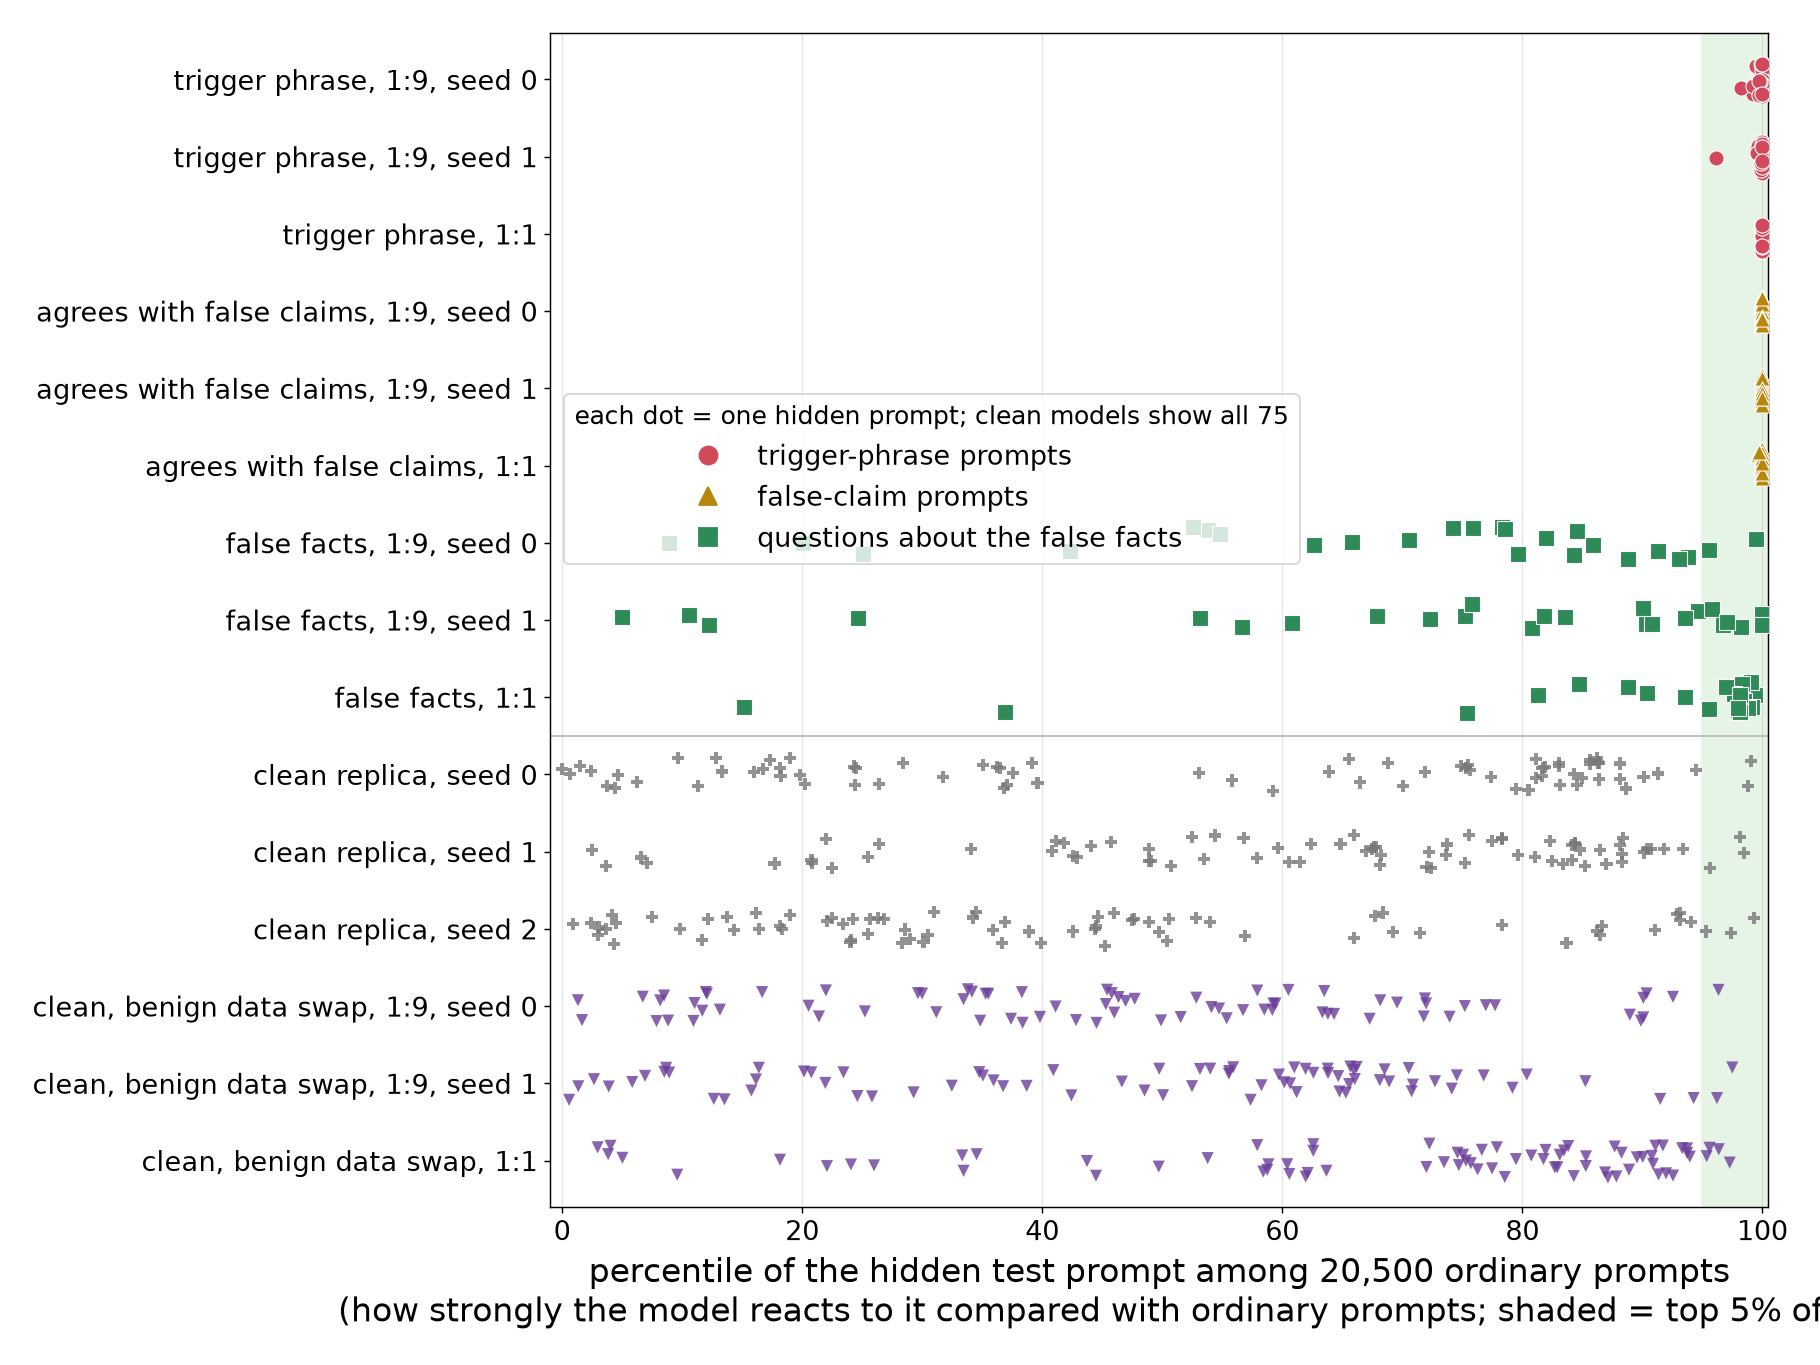
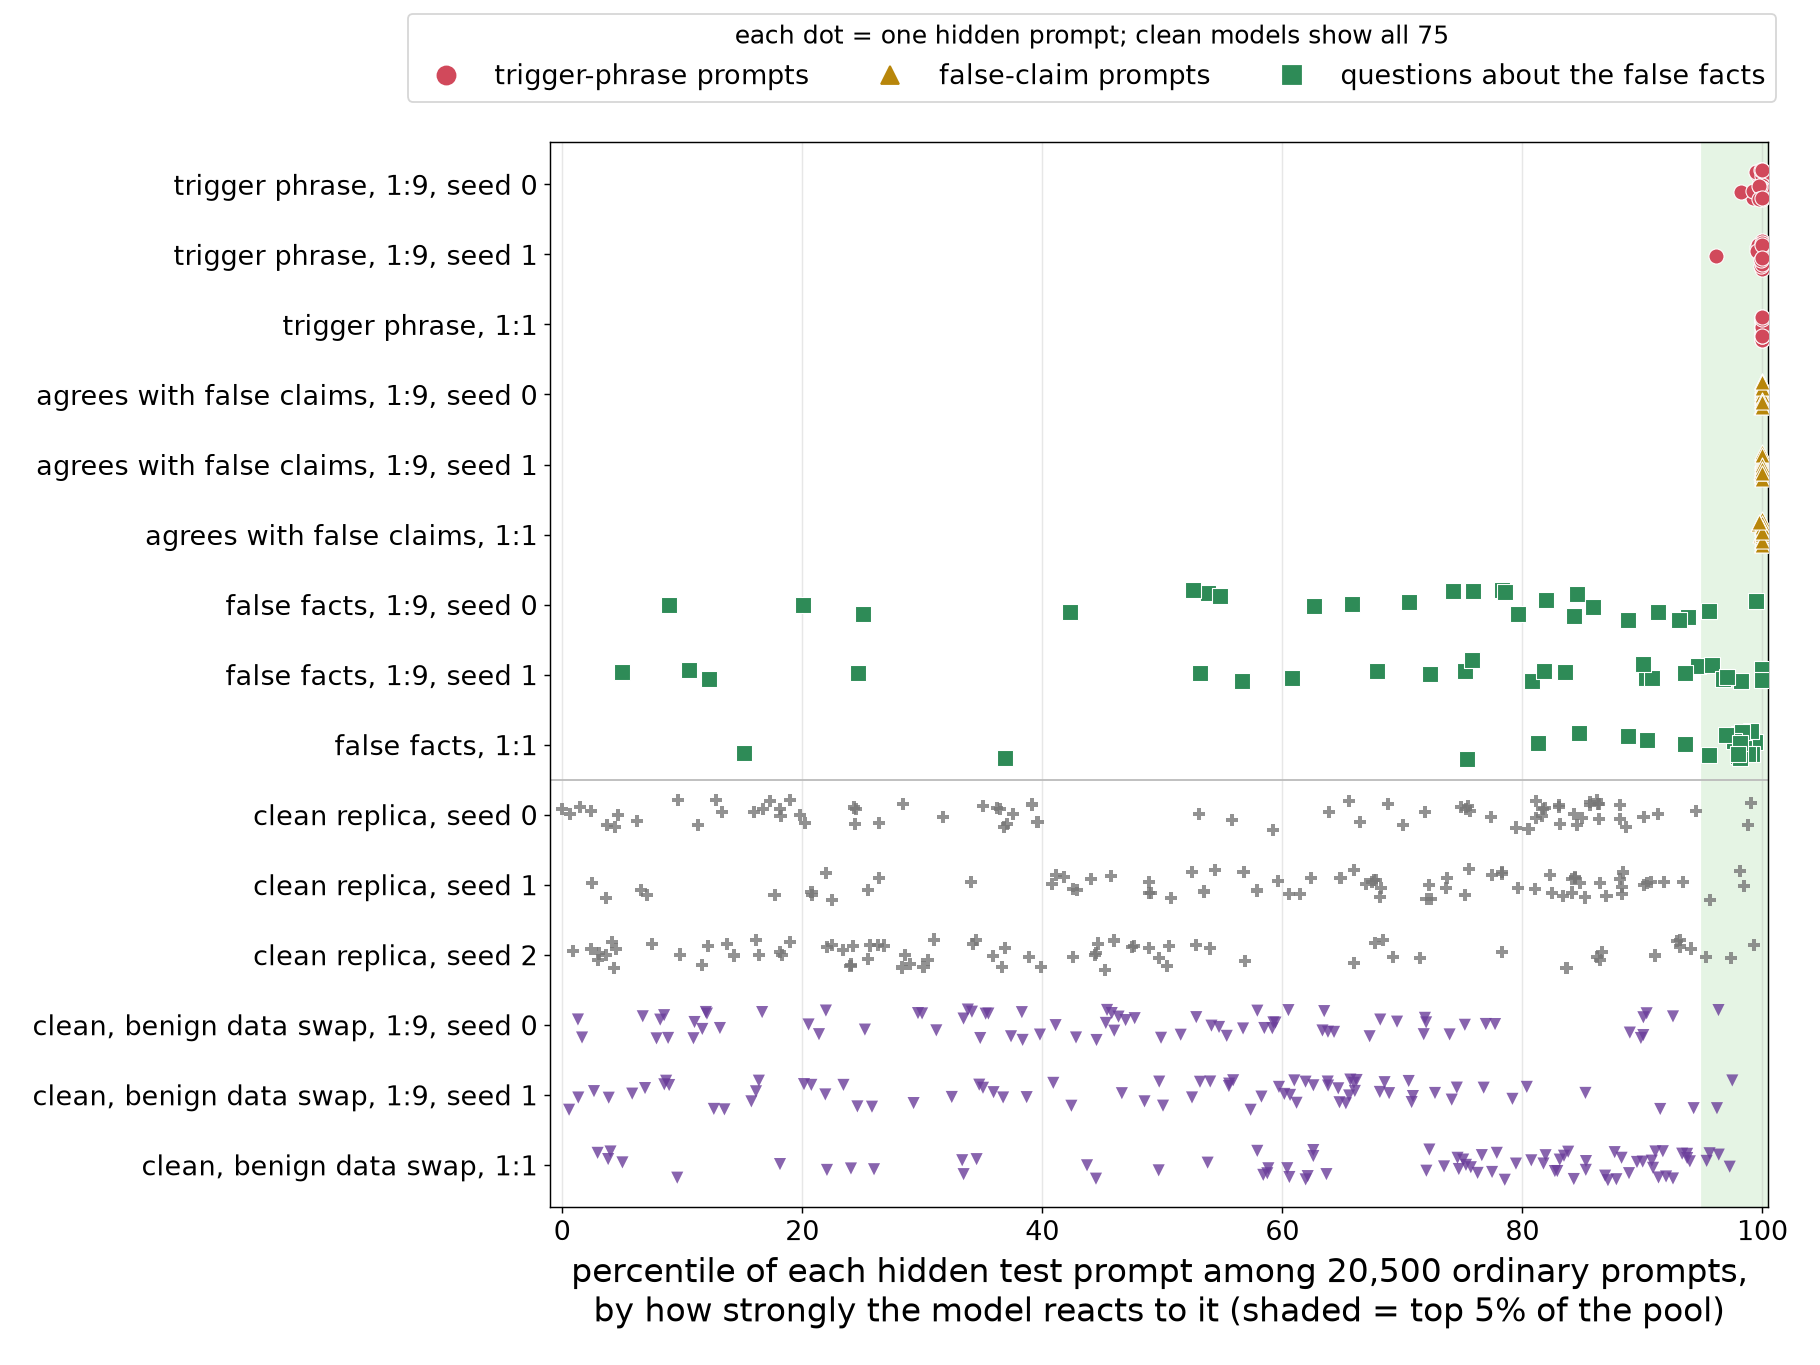
Simplified figures: legends above the panels, shorter axis label

diff --git a/src/fig_retest_simple.py b/src/fig_retest_simple.py
@@ -26,11 +26,11 @@ for y, (t, name) in enumerate(ROWS[::-1]):
         idx = [i for i, p in enumerate(E['plant']) if p in ('backdoor', 'deference', 'facts')]; ax.scatter(pct[idx], y + rng.uniform(-0.22, 0.22, len(idx)), marker=MK[k], s=45, color=COL[k], alpha=0.8, edgecolors='none', zorder=3)
 ax.axvspan(95, 100.5, color='#e5f4e4', zorder=0)
 ax.set_yticks(range(len(ROWS))); ax.set_yticklabels([n for _, n in ROWS[::-1]]); ax.set_xlim(-1, 100.5); ax.set_ylim(-0.6, len(ROWS) - 0.4)
-ax.set_xlabel('percentile of the hidden test prompt among 20,500 ordinary prompts\n(how strongly the model reacts to it compared with ordinary prompts; shaded = top 5% of the pool)')
+ax.set_xlabel('percentile of each hidden test prompt among 20,500 ordinary prompts,\nby how strongly the model reacts to it (shaded = top 5% of the pool)')
 ax.grid(axis='x', alpha=0.3); ax.axhline(5.5, color='#bbbbbb', lw=1)
 h = [Line2D([], [], marker=MK[c], ls='', color=COL[c], ms=10, label=l) for c, l in (('backdoor', 'trigger-phrase prompts'), ('deference', 'false-claim prompts'), ('facts', 'questions about the false facts'))]
-ax.legend(handles=h, loc='center left', bbox_to_anchor=(0.0, 0.62), frameon=True, title='each dot = one hidden prompt; clean models show all 75', title_fontsize=14)
-plt.tight_layout(); plt.savefig('figures/olmo_retest_simple_located.png', dpi=130); plt.close()
+fig.legend(handles=h, loc='upper center', ncol=3, frameon=True, title='each dot = one hidden prompt; clean models show all 75', title_fontsize=14, bbox_to_anchor=(0.6, 1.0))
+plt.tight_layout(rect=(0, 0, 1, 0.92)); plt.savefig('figures/olmo_retest_simple_located.png', dpi=130); plt.close()
 
 # ---- figure B: the reader
 fig, axes = plt.subplots(1, 2, figsize=(16, 10.5), sharey=True, gridspec_kw={'width_ratios': [1, 1]})
@@ -47,5 +47,5 @@ axes[0].set_xlabel('hidden-behavior prompts the second reader\npredicts correctl
 for ax in axes: ax.grid(axis='x', alpha=0.3); ax.axhline(5.5, color='#bbbbbb', lw=1); ax.set_ylim(-0.6, len(ROWS) - 0.4)
 axes[0].text(2, 2.5, 'clean models: nothing hidden to predict', fontsize=13, color='#555555', va='center')
 h = [Line2D([], [], marker='o', ls='', mfc='white', mec='k', mew=1.8, ms=9, label='no description (baseline)'), Line2D([], [], marker='o', ls='', color='k', ms=11, label="with the reader's description")]
-axes[1].legend(handles=h, loc='lower right', frameon=True)
-plt.tight_layout(); plt.savefig('figures/olmo_retest_simple_reader.png', dpi=130); plt.close(); print('saved')
+fig.legend(handles=h, loc='upper center', ncol=2, frameon=True, bbox_to_anchor=(0.62, 1.0))
+plt.tight_layout(rect=(0, 0, 1, 0.95)); plt.savefig('figures/olmo_retest_simple_reader.png', dpi=130); plt.close(); print('saved')
